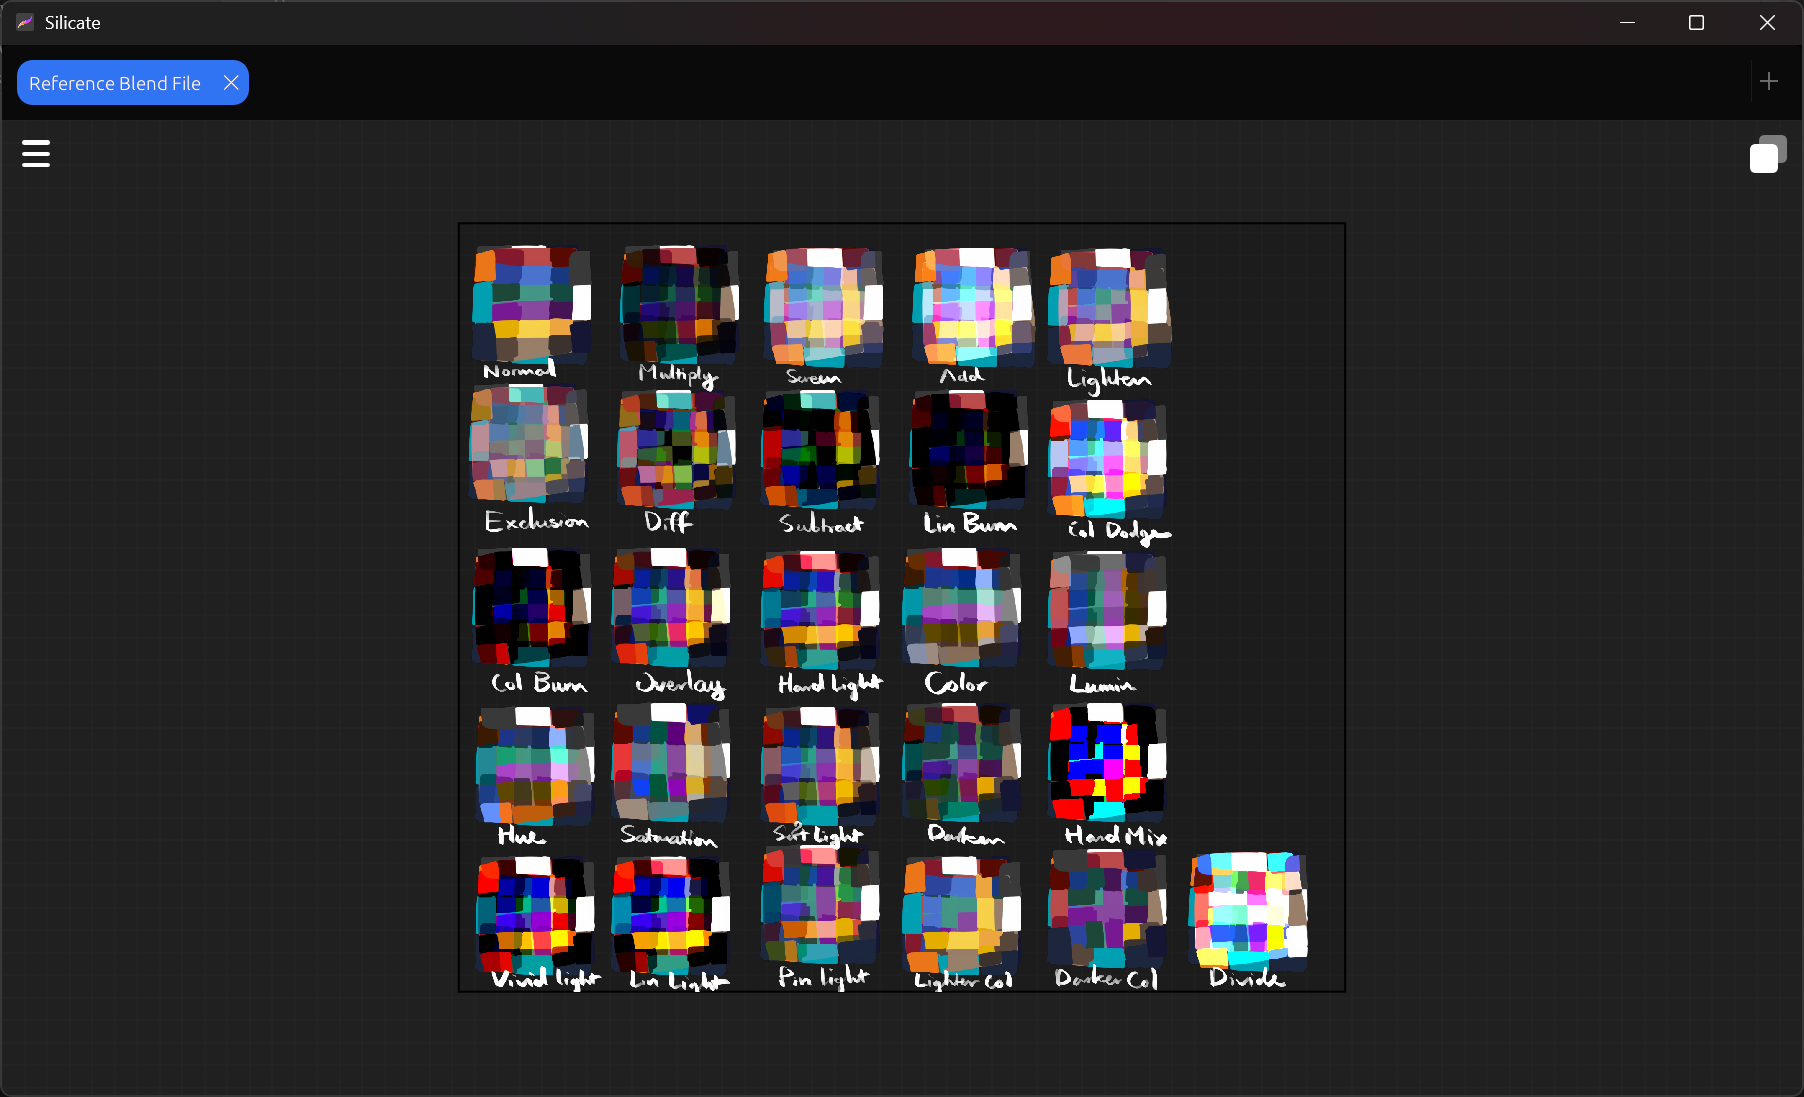
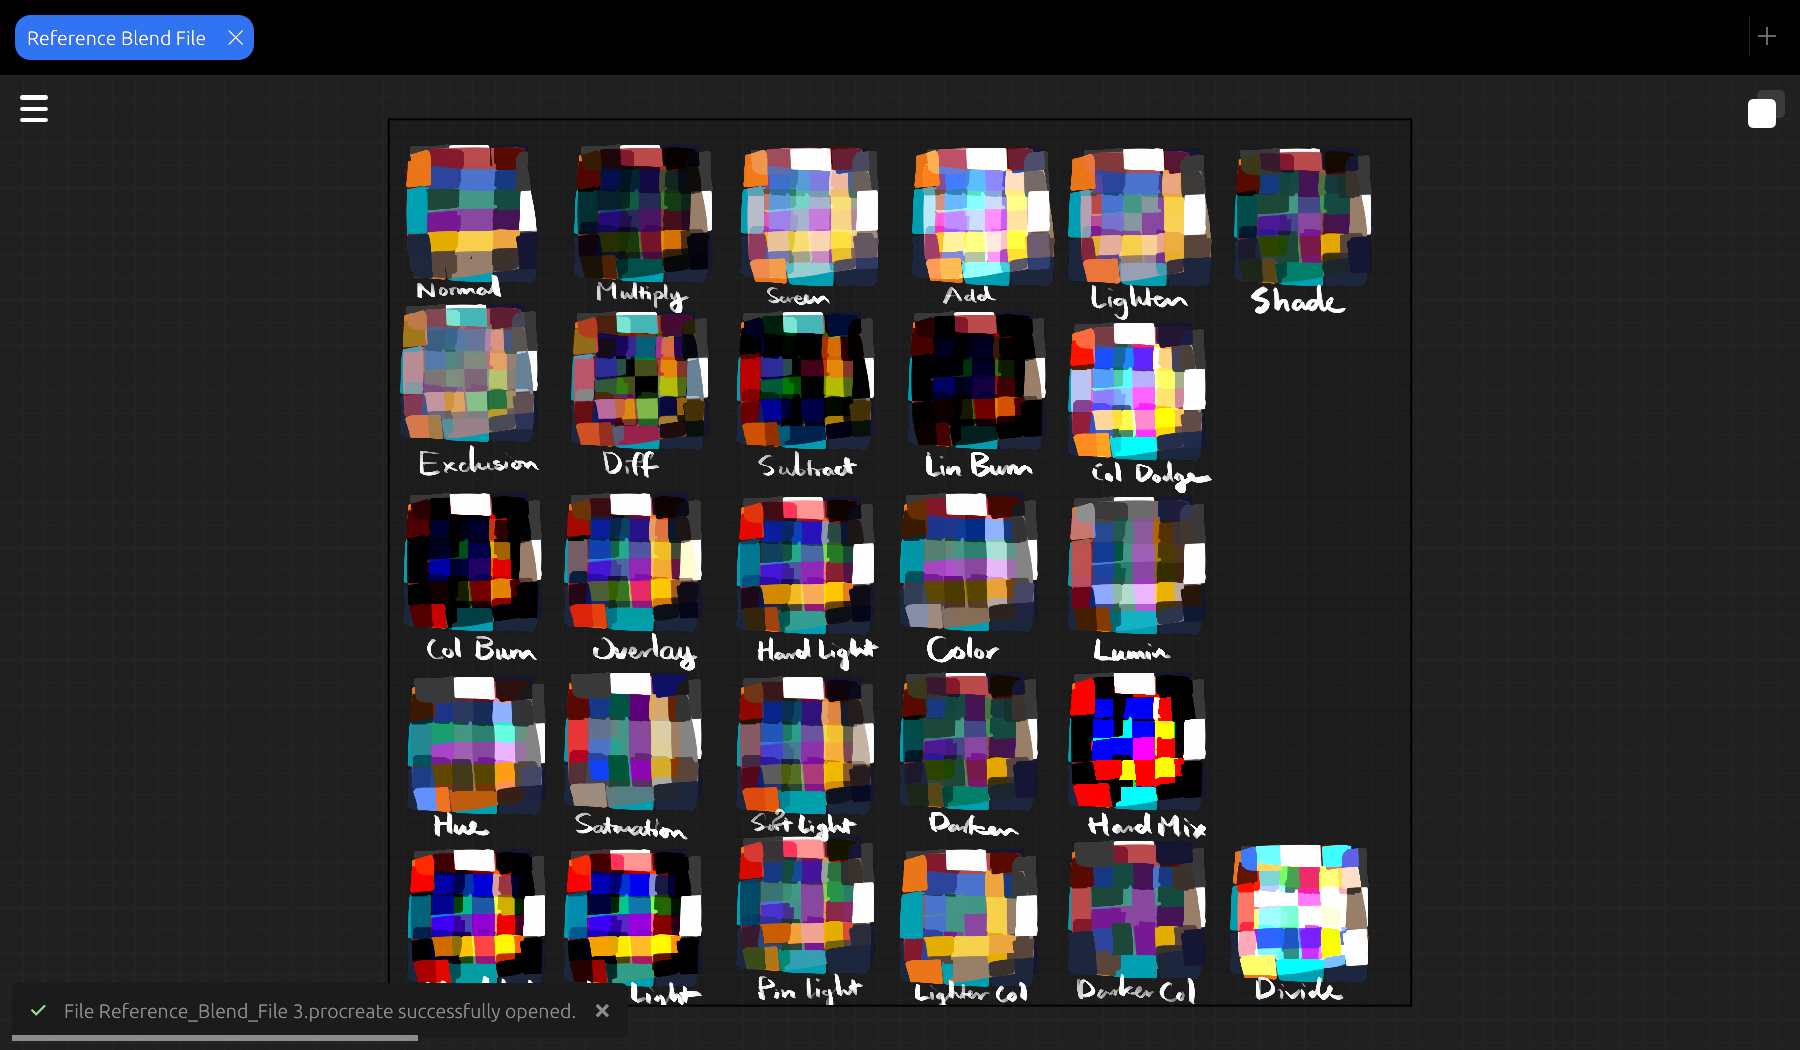
Release v0.3.2

diff --git a/README.md b/README.md
@@ -18,9 +18,9 @@ Cross-platform native viewer for `.procreate` files. There is a
 ## Features
 * Native desktop app for Windows, macOS, and Linux.
 * Load and view multiple `.procreate` files at once.
-* Export `.procreate` files to `png, jpeg, tga, tiff, webp, bmp` formats.
+* Export `.procreate` files to `png`, `jpeg`, `tga`, `tiff`, `webp`, `bmp` formats.
 * Change layer settings and live-preview the final result.
-  * Currently supports blending modes, clipping masks, opacity, hiding, and groups.
+  * Currently supports blending modes, clipping masks, masks, opacity, hiding, and groups.
 * Drag and drop loading.
 * GPU rendering, leveraging cross-platform `wgpu` integration.
   * Rotate and flip the canvas at orthogonal angles and orientations.
@@ -31,7 +31,6 @@ Cross-platform native viewer for `.procreate` files. There is a
 The following features will probably be added sometime in the future.
 * Documentation.
 * More utilization of `async` mechanics.
-* Nicer and more robust UI.
 * PSD export.
 * PSD preview (limited).
 
